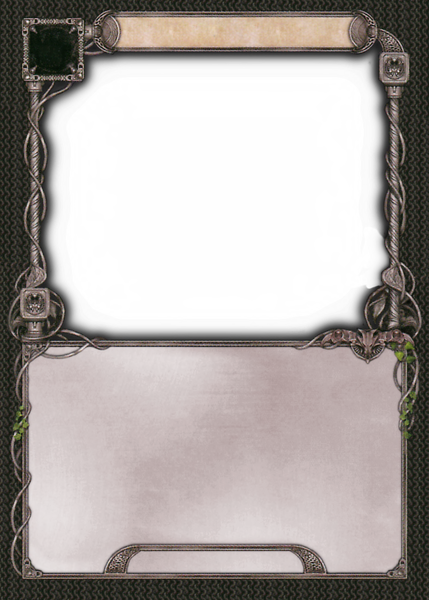
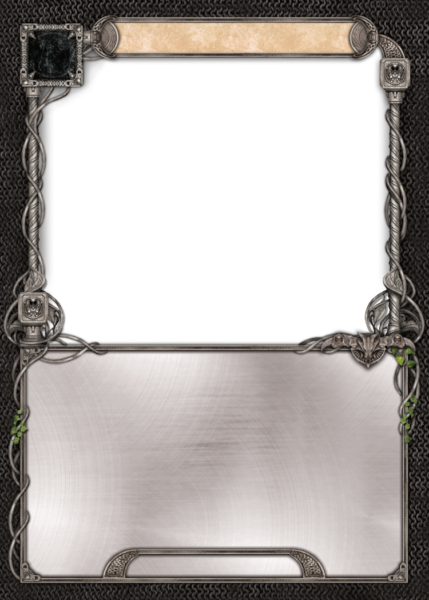
Update Attachment and Treasure templates

Changed region(s): [[0.0, 0.0, 1.0, 1.0], [0.4545, 0.72, 0.5152, 0.75]]

diff --git a/Frogmorton/common.js b/Frogmorton/common.js
@@ -231,7 +231,7 @@ collectionPortraitRegion[TREASURE] = '322,528,12,12';
 
 var typeRegion = {};
 typeRegion[ALLY] = '135,507,143,20';
-typeRegion[ATTACHMENT] = '136,504,142,20';
+typeRegion[ATTACHMENT] = '135,507,143,20';
 typeRegion[CAMPAIGN] = '135,504,142,20';
 typeRegion[CONTRACT] = '136,504,141,20';
 typeRegion[ENEMY] = '136,504,141,20';
@@ -248,7 +248,7 @@ typeRegion[PLAYER_OBJECTIVE] = '138,502,141,20';
 typeRegion[SHIP_ENEMY] = '136,504,141,20';
 typeRegion[SHIP_OBJECTIVE] = '136,504,141,20';
 typeRegion[TREACHERY] = '136,504,141,20';
-typeRegion[TREASURE] = '136,504,141,20';
+typeRegion[TREASURE] = '135,507,143,20';
 
 var copyrightRegion = {};
 copyrightRegion[ALLY] = '158,527,124,15';
@@ -342,7 +342,7 @@ portraitRegion[REGION] = '0,0,563,413';
 portraitRegion[SHIP_ENEMY] = '87,0,326,330';
 portraitRegion[SHIP_OBJECTIVE] = '78,81,335,268';
 portraitRegion[TREACHERY] = '60,0,353,330';
-portraitRegion[TREASURE] = '0,61,413,265';
+portraitRegion[TREASURE] = '0,50,413,290';
 
 var portraitBackRegion = {};
 portraitBackRegion[CONTRACT] = '0,0,413,315';
@@ -353,7 +353,7 @@ bodyRegionHeroPromo[GERMAN] = '73,467,269,45';
 
 var bodyRegion = {};
 bodyRegion[ALLY] = '55,380,303,115';
-bodyRegion[ATTACHMENT] = '57,347,299,144';
+bodyRegion[ATTACHMENT] = '55,351,303,145';
 bodyRegion[ENEMY] = '57,377,299,114';
 bodyRegion[ENEMY_NOSTAT] = '57,484,299,32';
 bodyRegion[EVENT] = '65,351,283,140';
@@ -368,7 +368,7 @@ bodyRegion[PLAYER_OBJECTIVE] = '65,355,283,137';
 bodyRegion[SHIP_ENEMY] = '57,377,299,114';
 bodyRegion[SHIP_OBJECTIVE] = '65,355,283,137';
 bodyRegion[TREACHERY] = '65,356,283,135';
-bodyRegion[TREASURE] = '57,347,299,144';
+bodyRegion[TREASURE] = '55,351,303,145';
 
 bodyRegion[CAVE] = '50,303,171,60';
 bodyRegion[ENCOUNTER_SIDE_QUEST] = '51,269,461,94';
@@ -377,7 +377,7 @@ bodyRegion[PLAYER_SIDE_QUEST] = '51,271,461,94';
 
 var traitRegion = {};
 traitRegion[ALLY] = '55,360,303,20';
-traitRegion[ATTACHMENT] = '85,327,243,20';
+traitRegion[ATTACHMENT] = '55,331,303,20';
 traitRegion[ENEMY] = '57,357,299,20';
 traitRegion[ENEMY_NOSTAT] = '57,470,299,14';
 traitRegion[EVENT] = '78,331,257,20';
@@ -392,7 +392,7 @@ traitRegion[PLAYER_OBJECTIVE] = '65,335,283,20';
 traitRegion[SHIP_ENEMY] = '57,357,299,20';
 traitRegion[SHIP_OBJECTIVE] = '65,335,283,20';
 traitRegion[TREACHERY] = '65,336,283,20';
-traitRegion[TREASURE] = '85,327,243,20';
+traitRegion[TREASURE] = '55,331,303,20';
 
 traitRegion[CAVE] = '50,283,171,20';
 traitRegion[ENCOUNTER_SIDE_QUEST] = '51,249,461,20';
@@ -425,7 +425,7 @@ bodyBackRegion[RULES] = '48,73,317,418';
 
 var nameRegion = {};
 nameRegion[ALLY] = '97,328,219,30';
-nameRegion[ATTACHMENT] = '131,36,185,30';
+nameRegion[ATTACHMENT] = '127,41,193,30';
 nameRegion[CAMPAIGN] = '107,41,199,30';
 nameRegion[CAVE] = '79,41,162,30';
 nameRegion[CONTRACT] = '83,243,247,33';
@@ -449,7 +449,7 @@ nameRegion[REGION] = '79,347,162,30';
 nameRegion[SHIP_ENEMY] = '93,325,227,30';
 nameRegion[SHIP_OBJECTIVE] = '74,46,265,33';
 nameRegion[TREACHERY] = '55,108,26,164';
-nameRegion[TREASURE] = '131,42,185,30';
+nameRegion[TREASURE] = '127,41,193,30';
 
 var nameBackRegion = {};
 nameBackRegion[CONTRACT] = '83,243,247,33';
@@ -457,7 +457,7 @@ nameBackRegion[QUEST] = '143,42,370,33';
 
 var nameUniqueRegion = {};
 nameUniqueRegion[ALLY] = '97,326,219,31';
-nameUniqueRegion[ATTACHMENT] = '131,34,185,31';
+nameUniqueRegion[ATTACHMENT] = '127,39,193,31';
 nameUniqueRegion[CAVE] = '79,39,162,31';
 nameUniqueRegion[CONTRACT] = '83,241,247,34';
 nameUniqueRegion[ENCOUNTER_SIDE_QUEST] = '99,38,365,34';
@@ -477,14 +477,14 @@ nameUniqueRegion[REGION] = '79,345,162,31';
 nameUniqueRegion[SHIP_ENEMY] = '93,323,227,31';
 nameUniqueRegion[SHIP_OBJECTIVE] = '74,44,265,34';
 nameUniqueRegion[TREACHERY] = '52,108,29,164';
-nameUniqueRegion[TREASURE] = '131,40,185,31';
+nameUniqueRegion[TREASURE] = '127,39,193,31';
 
 var nameUniqueBackRegion = {};
 nameUniqueBackRegion[CONTRACT] = '83,241,247,34';
 
 var subtypeRegion = {};
 subtypeRegion[ALLY] = '146,305,124,20';
-subtypeRegion[ATTACHMENT] = '146,301,124,20';
+subtypeRegion[ATTACHMENT] = '146,305,124,20';
 subtypeRegion[ENEMY] = '146,302,124,20';
 subtypeRegion[EVENT] = '146,303,124,20';
 subtypeRegion[OBJECTIVE] = '144,308,129,20';
@@ -568,10 +568,10 @@ cycleRegion[CAMPAIGN] = '68,243,274,32';
 
 var resourceCostRegion = {};
 resourceCostRegion[ALLY] = '64,44,56,37';
-resourceCostRegion[ATTACHMENT] = '37,44,56,37';
+resourceCostRegion[ATTACHMENT] = '36,48,56,37';
 resourceCostRegion[EVENT] = '37,38,56,37';
 resourceCostRegion[PLAYER_SIDE_QUEST] = '43,44,56,37';
-resourceCostRegion[TREASURE] = '45,61,44,30';
+resourceCostRegion[TREASURE] = '37,58,56,37';
 
 var difficultyRegion = {};
 difficultyRegion[ENCOUNTER_SIDE_QUEST] = '0,0,563,413';
@@ -605,7 +605,7 @@ encounterPortraitRegion[REGION] = '37,341,35,35';
 encounterPortraitRegion[SHIP_ENEMY] = '321,265,43,43';
 encounterPortraitRegion[SHIP_OBJECTIVE] = '315,268,43,43';
 encounterPortraitRegion[TREACHERY] = '321,266,43,43';
-encounterPortraitRegion[TREASURE] = '327,478,43,43';
+encounterPortraitRegion[TREASURE] = '328,481,43,43';
 
 var encounterNumberRegion = {};
 encounterNumberRegion[CAVE] = '41,70,26,10';
@@ -636,13 +636,13 @@ optionLeftRegion[TREACHERY] = '43,490,48,24';
 
 var optionRightDecorationRegion = {};
 optionRightDecorationRegion[ALLY] = '300,506,72,18';
-optionRightDecorationRegion[ATTACHMENT] = '300,503,72,18';
+optionRightDecorationRegion[ATTACHMENT] = '300,506,72,18';
 optionRightDecorationRegion[ENCOUNTER_SIDE_QUEST] = '452,347,72,18';
 optionRightDecorationRegion[ENCOUNTER_SIDE_QUEST_SMALLTEXTAREA] = '452,347,72,18';
 optionRightDecorationRegion[ENEMY] = '301,503,72,18';
 optionRightDecorationRegion[EVENT] = '298,503,72,18';
 optionRightDecorationRegion[HERO] = '300,506,72,18';
-optionRightDecorationRegion[HERO_PROMO] = '282,495,72,18';
+optionRightDecorationRegion[HERO_PROMO] = '300,506,72,18';
 optionRightDecorationRegion[LOCATION] = '301,503,72,18';
 optionRightDecorationRegion[OBJECTIVE] = '290,500,72,18';
 optionRightDecorationRegion[OBJECTIVE_ALLY] = '290,500,72,18';
@@ -654,17 +654,17 @@ optionRightDecorationRegion[QUEST] = '450,350,72,18';
 optionRightDecorationRegion[SHIP_ENEMY] = '301,503,72,18';
 optionRightDecorationRegion[SHIP_OBJECTIVE] = '290,502,72,18';
 optionRightDecorationRegion[TREACHERY] = '301,503,72,18';
-optionRightDecorationRegion[TREASURE] = '253,477,72,18';
+optionRightDecorationRegion[TREASURE] = '41,506,72,18';
 
 var optionRightRegion = {};
 optionRightRegion[ALLY] = '307,507,59,20';
-optionRightRegion[ATTACHMENT] = '307,504,59,20';
+optionRightRegion[ATTACHMENT] = '307,507,59,20';
 optionRightRegion[ENCOUNTER_SIDE_QUEST] = '459,348,59,20';
 optionRightRegion[ENCOUNTER_SIDE_QUEST_SMALLTEXTAREA] = '459,348,59,20';
 optionRightRegion[ENEMY] = '308,504,59,20';
 optionRightRegion[EVENT] = '305,504,59,20';
 optionRightRegion[HERO] = '307,507,59,20';
-optionRightRegion[HERO_PROMO] = '289,496,59,20';
+optionRightRegion[HERO_PROMO] = '307,507,59,20';
 optionRightRegion[LOCATION] = '308,504,59,20';
 optionRightRegion[OBJECTIVE] = '297,501,59,20';
 optionRightRegion[OBJECTIVE_ALLY] = '297,501,59,20';
@@ -676,7 +676,7 @@ optionRightRegion[QUEST] = '457,351,59,20';
 optionRightRegion[SHIP_ENEMY] = '308,504,59,20';
 optionRightRegion[SHIP_OBJECTIVE] = '297,503,59,20';
 optionRightRegion[TREACHERY] = '308,504,59,20';
-optionRightRegion[TREASURE] = '260,478,59,20';
+optionRightRegion[TREASURE] = '48,507,59,20';
 
 var bodyPointSize = {};
 bodyPointSize[ALLY] = 7.5;
@@ -796,7 +796,7 @@ threatCostTint[HERO_PROMO] = '0.0,0.0,0.95';
 var sphereBodyShape = {};
 sphereBodyShape[HERO] = '0,0,472,40,0';
 sphereBodyShape[HERO_PROMO] = '0,0,0,0,0';
-sphereBodyShape[TREASURE] = '0,0,472,0,34';
+sphereBodyShape[TREASURE] = '0,0,472,0,40';
 
 var sphereOptionBodyShape = {};
 sphereOptionBodyShape[TREASURE] = '0,0,472,0,104';
@@ -1651,7 +1651,7 @@ function run(context, doc, setID, lang, icons, getCardObjects, saveResult, progr
 				}
 
 				let defaultStarPointSize = 6.5;
-				let defaultOptionLeftPointSize = 12;
+				let defaultOptionPointSize = 12;
 				let defaultPagePointSize = 7;
 				let defaultEncounterSetNumberPointSize = 4;
 
@@ -1698,9 +1698,11 @@ function run(context, doc, setID, lang, icons, getCardObjects, saveResult, progr
 				s.set('Name-pointsize', Math.round(defaultNamePointSize * 1.734 * 100) / 100);
 				s.set('Bottom-pointsize', defaultBottomPointSize);
 				s.set('Star-pointsize', defaultStarPointSize);
-				s.set('OptionLeft-pointsize', defaultOptionLeftPointSize);
+				s.set('Option-pointsize', defaultOptionPointSize);
+				s.set('OptionLeft-pointsize', defaultOptionPointSize);
 				s.set('EncounterSetNumber-pointsize', defaultEncounterSetNumberPointSize);
-				s.set('OptionLeft-alignment', 'bottom,center');
+				s.set('Option-alignment', 'middle,center');
+				s.set('OptionLeft-alignment', 'middle,center');
 				s.set('Engagement-tint', '32.0,1.0,0.9');
 				s.set('Progress-tint', '32.0,1.0,0.9');
 				s.set('HitPoints-tint', '0.0,0.8,1.0');
@@ -1975,7 +1977,7 @@ function run(context, doc, setID, lang, icons, getCardObjects, saveResult, progr
 					s.set('Bottom-formatEnd', '</b></size></family></width>');
 					s.set('EncounterSetNumber-format', '<family "Times New Roman"><size ' + defaultEncounterSetNumberPointSize + '><b>');
 					s.set('EncounterSetNumber-formatEnd', '</b></size></family>');
-					s.set('OptionLeft-format', '<family "Times New Roman"><size ' + defaultOptionLeftPointSize + '>');
+					s.set('OptionLeft-format', '<family "Times New Roman"><size ' + defaultOptionPointSize + '>');
 					s.set('OptionLeft-formatEnd', '</size></family>');
 					s.set('OptionRight-format', '<width semicondensed>');
 					s.set('OptionRight-formatEnd', '</width>');
